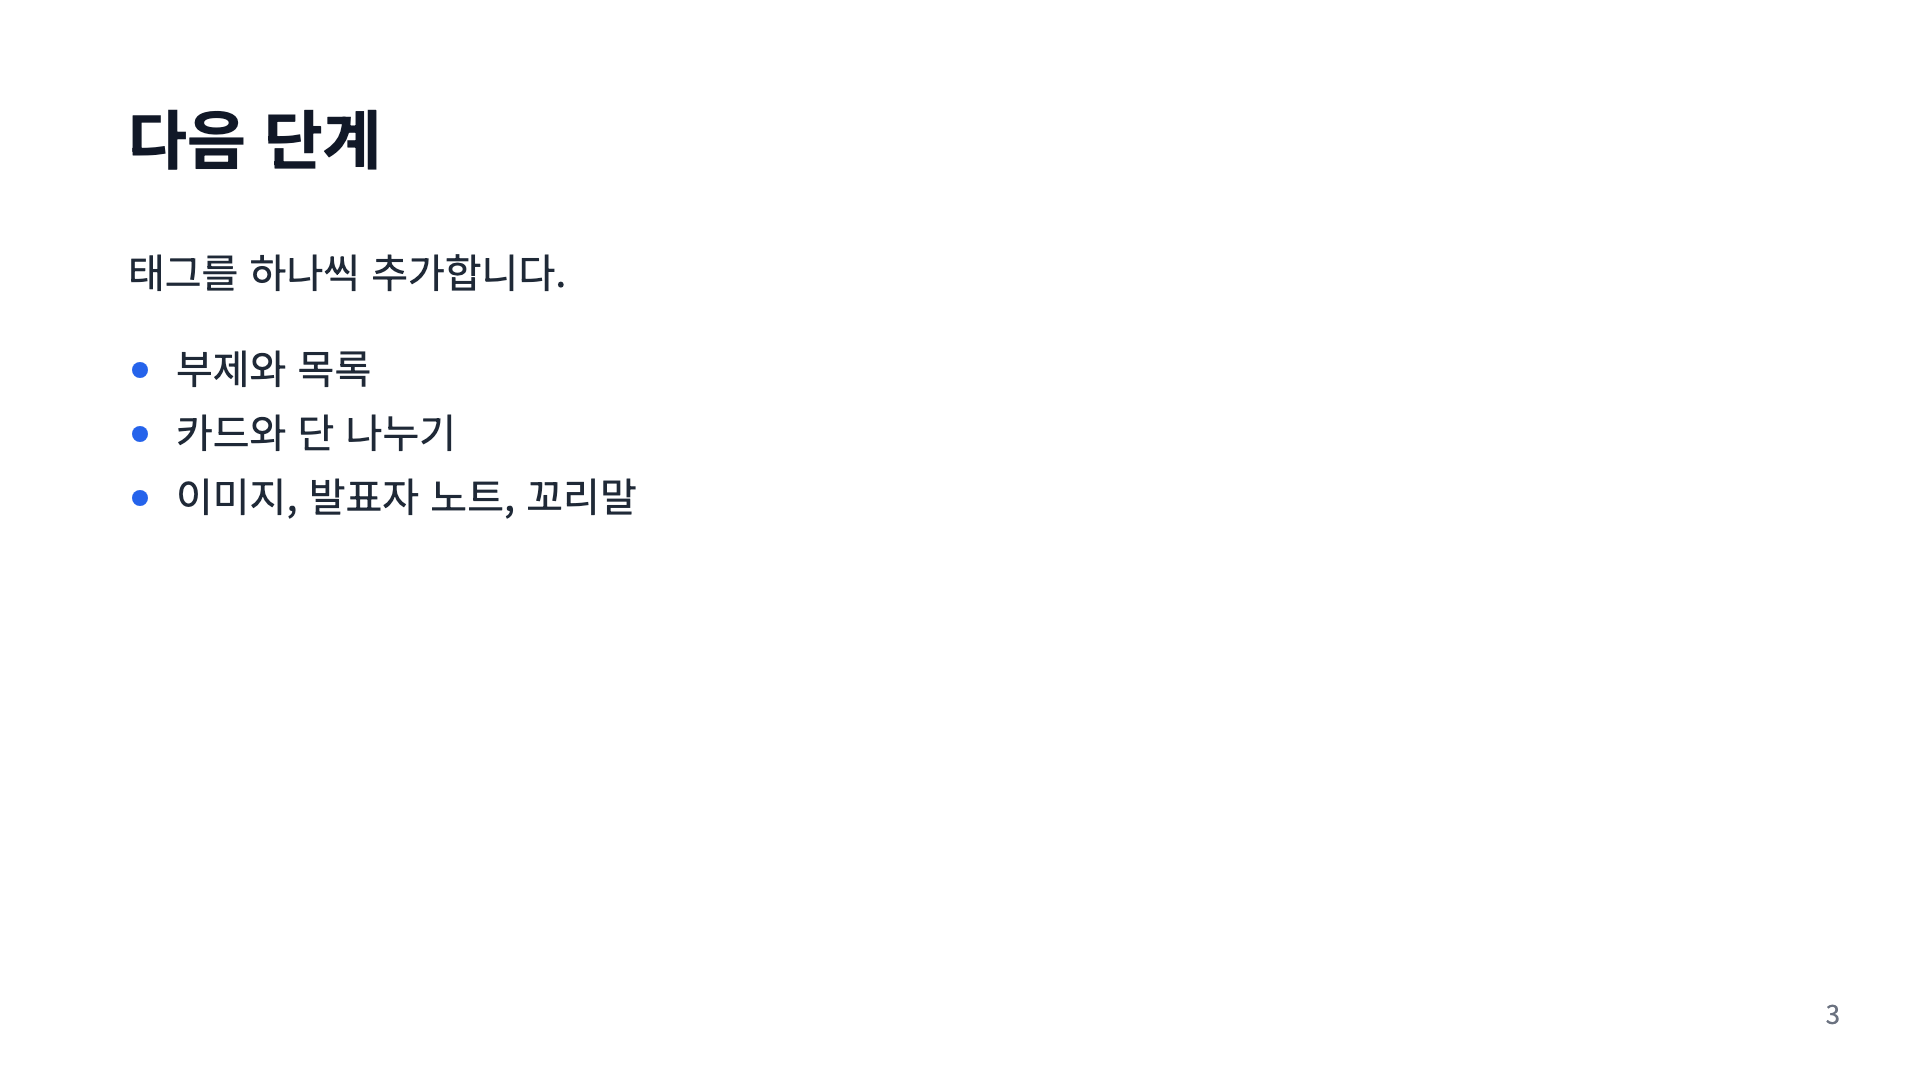
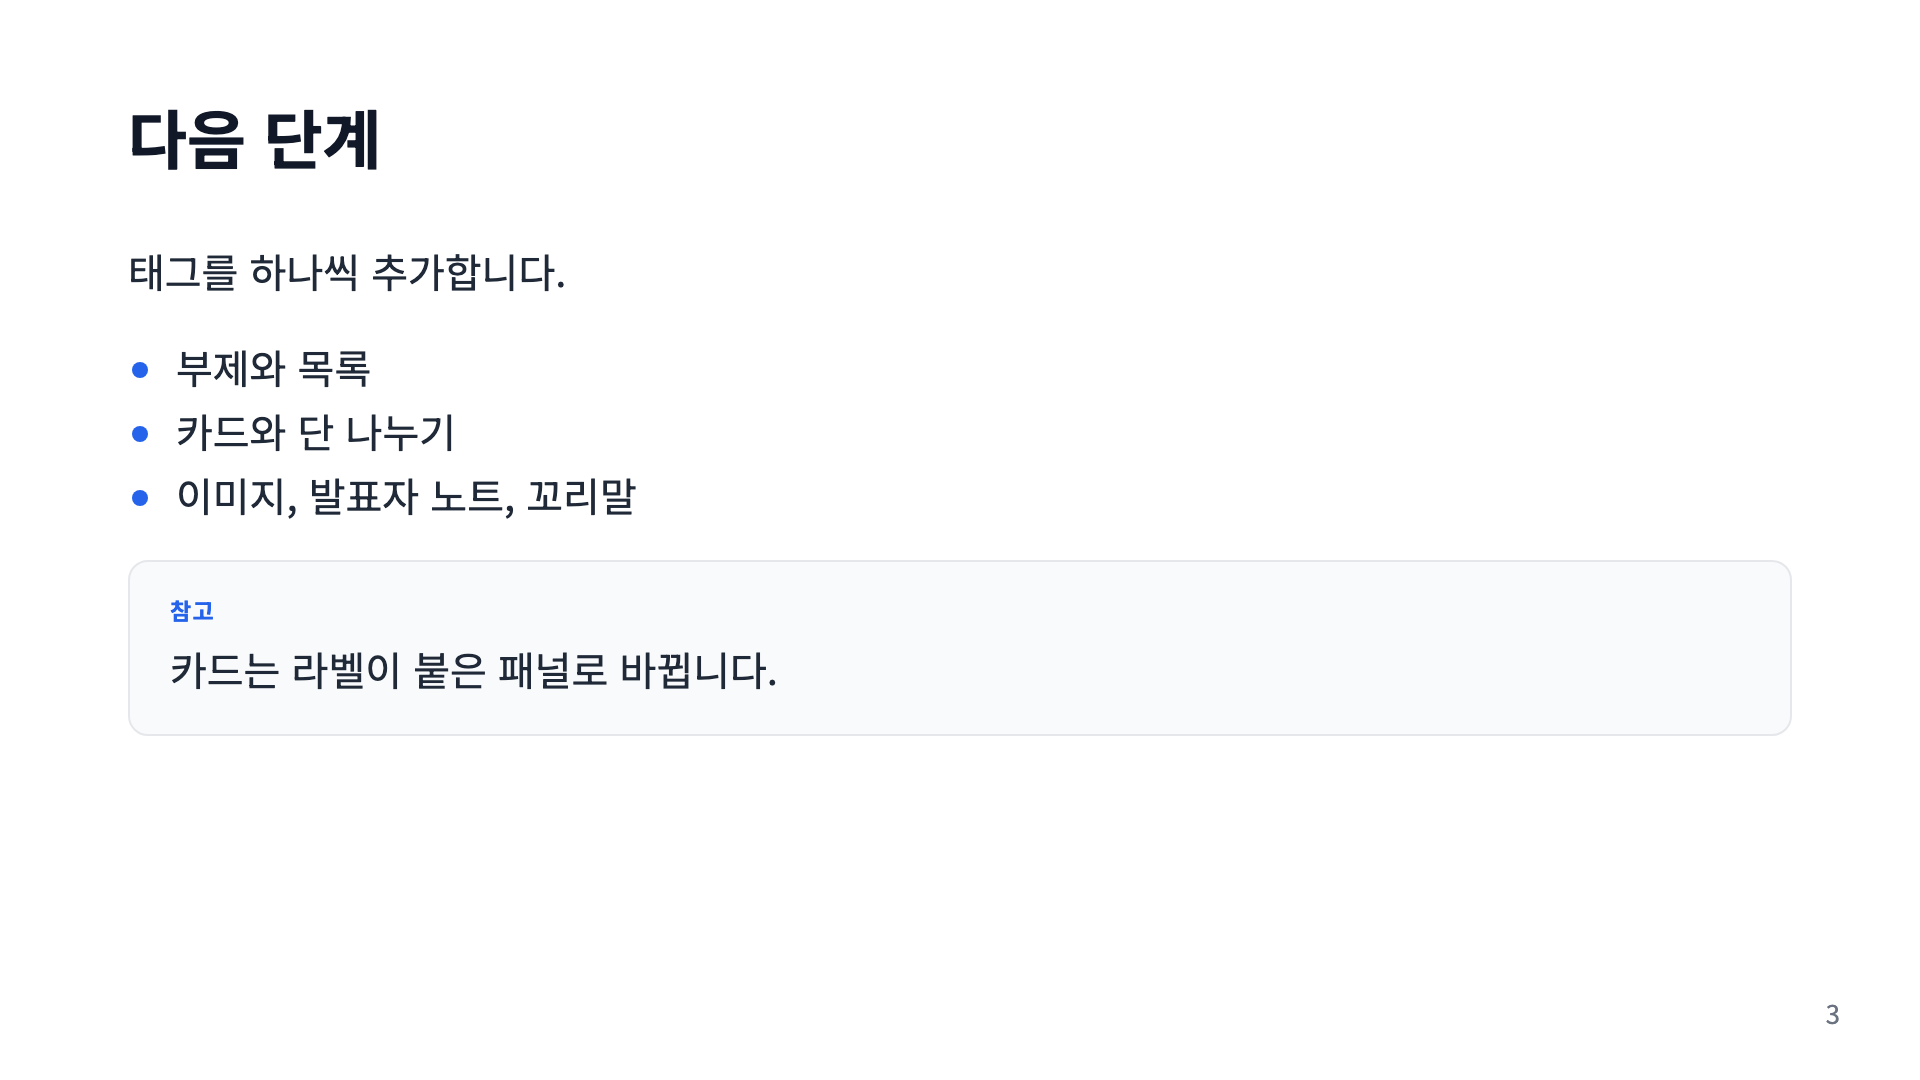
feat: <wb-card label> markup lowers to the spec panel block (#23)
The tree keeps attribute values; wb-card accepts only label. Card text
becomes panel paragraphs. Preset adds --wb-card-bg, --wb-border and
--wb-radius and maps --color-border.

Changed region(s): [[0.0938, 0.5806, 0.4062, 0.6417], [0.0625, 0.55, 0.125, 0.5806]]

diff --git a/framework/presets/slide.css b/framework/presets/slide.css
@@ -5,6 +5,7 @@
   --color-text: var(--wb-text);
   --color-text-muted: var(--wb-muted);
   --color-background: var(--wb-bg);
+  --color-border: var(--wb-border);
 }
 .ms-feature-layout { padding: var(--wb-safe-y) var(--wb-safe-x); gap: var(--wb-gap); }
 .ms-slide-title {
@@ -27,3 +28,6 @@
 }
 .wb-list { margin: 0 0 var(--wb-gap); padding-left: 1.2em; font-size: var(--wb-body-size); line-height: 1.6; }
 .wb-list li::marker { color: var(--wb-accent); }
+.panel { background: var(--wb-card-bg); border-color: var(--wb-border); border-radius: var(--wb-radius); padding: var(--wb-gap) calc(var(--wb-gap) * 1.25); margin: 0 0 var(--wb-gap); }
+.panel > p:last-child { margin-bottom: 0; }
+.panel-label { color: var(--wb-accent); }

diff --git a/samples/markup/deck.html b/samples/markup/deck.html
@@ -15,4 +15,5 @@
     <wb-item>카드와 단 나누기</wb-item>
     <wb-item>이미지, 발표자 노트, 꼬리말</wb-item>
   </wb-list>
+  <wb-card label="참고">카드는 라벨이 붙은 패널로 바뀝니다.</wb-card>
 </wb-slide>

diff --git a/framework/presets/themes/default.css b/framework/presets/themes/default.css
@@ -9,6 +9,9 @@
 --wb-muted: #6B7280;
 --wb-accent: #2563EB;
 --wb-bg: #FFFFFF;
+--wb-card-bg: #F9FAFB;
+--wb-border: #E5E7EB;
+--wb-radius: 10px;
 --wb-safe-x: 64px;
 --wb-safe-y: 48px;
 --wb-gap: 16px;

diff --git a/framework/presets/themes/night.css b/framework/presets/themes/night.css
@@ -9,6 +9,9 @@
 --wb-muted: #9CA3AF;
 --wb-accent: #F59E0B;
 --wb-bg: #111827;
+--wb-card-bg: #1F2937;
+--wb-border: #374151;
+--wb-radius: 12px;
 --wb-safe-x: 72px;
 --wb-safe-y: 56px;
 --wb-gap: 20px;

diff --git a/src/markup.rs b/src/markup.rs
@@ -11,7 +11,7 @@ const NIGHT_THEME: &str = include_str!("../framework/presets/themes/night.css");
 const MAX_THEME_BYTES: usize = 8 * 1024;
 
 /// Tags and the attributes each accepts. Everything else is an error.
-const TAGS: &[(&str, &[&str])] = &[("wb-slide", &[]), ("wb-title", &[]), ("wb-subtitle", &[]), ("wb-list", &[]), ("wb-item", &[])];
+const TAGS: &[(&str, &[&str])] = &[("wb-slide", &[]), ("wb-title", &[]), ("wb-subtitle", &[]), ("wb-list", &[]), ("wb-item", &[]), ("wb-card", &["label"])];
 
 enum Node {
     Text(String),
@@ -21,6 +21,7 @@ enum Node {
 struct El {
     name: String,
     pos: usize,
+    attrs: Vec<(String, String)>,
     kids: Vec<Node>,
 }
 
@@ -30,7 +31,7 @@ fn unexpected(el: &El) -> String {
 
 /// Tokenize into a tree of known elements and text. Checks vocabulary and nesting only.
 fn tree(markup: &str) -> Result<Vec<Node>> {
-    let mut stack = vec![El { name: String::new(), pos: 0, kids: Vec::new() }];
+    let mut stack = vec![El { name: String::new(), pos: 0, attrs: Vec::new(), kids: Vec::new() }];
     let emitter = DefaultEmitter::<usize>::new_with_span();
     for token in Tokenizer::new_with_emitter(markup, emitter) {
         match token.map_err(|e| e.to_string())? {
@@ -51,11 +52,13 @@ fn tree(markup: &str) -> Result<Vec<Node>> {
                 let name = String::from_utf8_lossy(&t.name).to_string();
                 let allowed = TAGS.iter().find(|(n, _)| *n == name).map(|(_, a)| *a);
                 let allowed = allowed.ok_or(format!("unexpected <{name}> at byte {}", t.span.start))?;
-                let bad = t.attributes.keys().any(|k| !allowed.contains(&String::from_utf8_lossy(k).as_ref()));
-                if bad || t.self_closing {
+                let attrs: Vec<(String, String)> = t.attributes.iter()
+                    .map(|(k, v)| (String::from_utf8_lossy(k).to_string(), String::from_utf8_lossy(&v.value).to_string()))
+                    .collect();
+                if attrs.iter().any(|(k, _)| !allowed.contains(&k.as_str())) || t.self_closing {
                     return Err(format!("unsupported attributes or self-closing tag at byte {}", t.span.start));
                 }
-                stack.push(El { name, pos: t.span.start, kids: Vec::new() });
+                stack.push(El { name, pos: t.span.start, attrs, kids: Vec::new() });
             }
             Token::EndTag(t) => {
                 let name = String::from_utf8_lossy(&t.name).to_string();
@@ -135,6 +138,23 @@ fn body(kids: &[Node]) -> Result<Vec<serde_json::Value>> {
                     return Err(format!("empty <wb-list> at byte {}", e.pos));
                 }
                 blocks.push(json!({"type": "list", "items": items}));
+            }
+            Node::El(e) if e.name == "wb-card" => {
+                let mut texts = Vec::new();
+                for kid in &e.kids {
+                    match kid {
+                        Node::Text(t) => paragraphs(t, &mut texts),
+                        Node::El(inner) => return Err(unexpected(inner)),
+                    }
+                }
+                if texts.is_empty() {
+                    return Err(format!("empty <wb-card> at byte {}", e.pos));
+                }
+                let mut panel = json!({"type": "panel", "paragraphs": texts.iter().map(|t| &t["text"]).collect::<Vec<_>>()});
+                if let Some((_, label)) = e.attrs.iter().find(|(k, _)| k == "label") {
+                    panel["label"] = json!(collapse(label));
+                }
+                blocks.push(panel);
             }
             Node::El(e) => return Err(unexpected(e)),
         }
@@ -303,6 +323,24 @@ mod tests {
         ] {
             assert!(compile(m).unwrap_err().contains(msg), "{m}");
         }
+    }
+
+    #[test]
+    fn card_is_a_labelled_panel() {
+        let s = spec("<wb-slide><wb-card label=\" 검토 &amp; 확인 \">첫째\n\n둘째</wb-card><wb-card>단독</wb-card></wb-slide>");
+        assert_eq!(s["slides"][0]["blocks"], json!([
+            {"type":"panel","label":"검토 & 확인","paragraphs":["첫째","둘째"]},
+            {"type":"panel","paragraphs":["단독"]}]));
+        assert_eq!(s["title"], "검토 & 확인"); // first string: the label
+        for (m, msg) in [
+            ("<wb-slide><wb-card></wb-card></wb-slide>", "empty <wb-card>"),
+            ("<wb-slide><wb-card><wb-list><wb-item>x</wb-item></wb-list></wb-card></wb-slide>", "unexpected <wb-list>"),
+            ("<wb-slide><wb-card tone=info>x</wb-card></wb-slide>", "unsupported attributes"),
+        ] {
+            assert!(compile(m).unwrap_err().contains(msg), "{m}");
+        }
+        // A blank label is left for the spec to reject with a field path.
+        assert!(compile("<wb-slide><wb-card label=\" \">x</wb-card></wb-slide>").is_ok());
     }
 
     #[test]

diff --git a/tools/test_render.py b/tools/test_render.py
@@ -155,6 +155,7 @@ class RenderTest(unittest.TestCase):
             self.assertIn("가상 시범 운영 검토", manifest["slides"][1]["text"])
             self.assertIn("기능 확인용 합성 자료", manifest["slides"][1]["text"])
             self.assertIn("카드와 단 나누기", manifest["slides"][2]["text"])
+            self.assertIn("라벨이 붙은 패널", manifest["slides"][2]["text"])
             self.assertFalse(any(s["overflow"] for s in manifest["slides"]))
             # Bare <wb-slide>: ink is centered on the canvas.
             bare = Image.open(self.root / theme / manifest["slides"][0]["file"]).convert("RGB")

diff --git a/docs/markup-dsl.md b/docs/markup-dsl.md
@@ -104,6 +104,7 @@ Rendered samples: `samples/markup/default.png`, `night.png`, and
 - `<wb-title>` (optional, first child) becomes the slide `heading`, and the slide uses the title-top layout.
 - `<wb-subtitle>` (optional, directly after `<wb-title>`) becomes `subtitle`. It is sized by `--wb-subtitle-size` and coloured with `--wb-muted`.
 - `<wb-list>` contains only `<wb-item>` elements, each holding text. It becomes a spec `list` block, placed in order among the paragraphs. The bullet marker uses `--wb-accent`.
+- `<wb-card label="…">` holds text paragraphs. It becomes a spec `panel` block, with the optional label as `label`. The preset styles it with `--wb-card-bg`, `--wb-border`, `--wb-radius` and an accent-coloured label.
 - A slide without `<wb-title>` shows its body centered on both axes (`<wb-slide>hello</wb-slide>`). It maps to a spec slide without `heading`, which renders with `slide-section`. The preset sizes this text with `--wb-center-size`.
 - Remaining text becomes body. Whitespace collapses as in HTML, and blank-line-separated runs become separate `text` blocks.
 - Deck `title` is the first heading. If no slide has a heading, it is the first slide's first text.
@@ -111,6 +112,6 @@ Rendered samples: `samples/markup/default.png`, `night.png`, and
 
 ## Next slices (one tag each)
 
-`wb-card` → panel, `wb-columns`,
+`wb-columns`,
 `wb-image`/`wb-svg` (#22), `wb-notes`, `wb-footer`. Notes and footer need spec
 fields.

diff --git a/CHANGELOG.md b/CHANGELOG.md
@@ -12,7 +12,7 @@ All notable changes to wb-slide.
   `docs/markup-dsl.md`.
 - Typed spec: `heading` is now optional. A slide without it shows its blocks centered
   (`slide-section`). Markup `<wb-slide>hello</wb-slide>` uses this.
-- Markup `<wb-subtitle>` and `<wb-list>`/`<wb-item>`; typed spec gains an additive
+- Markup `<wb-card label>` (lowers to `panel`), `<wb-subtitle>` and `<wb-list>`/`<wb-item>`; typed spec gains an additive
   `list` block (`items`, 1–16 strings).
 
 ## v0.9.0 — 2026-06-12
